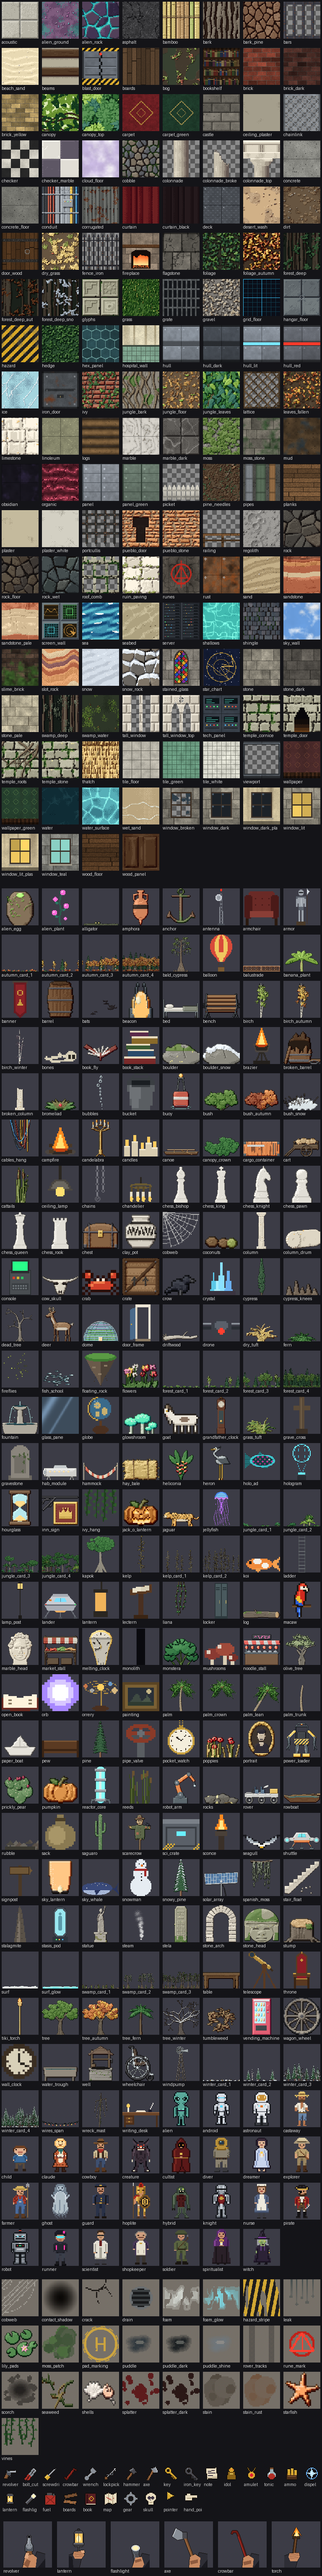
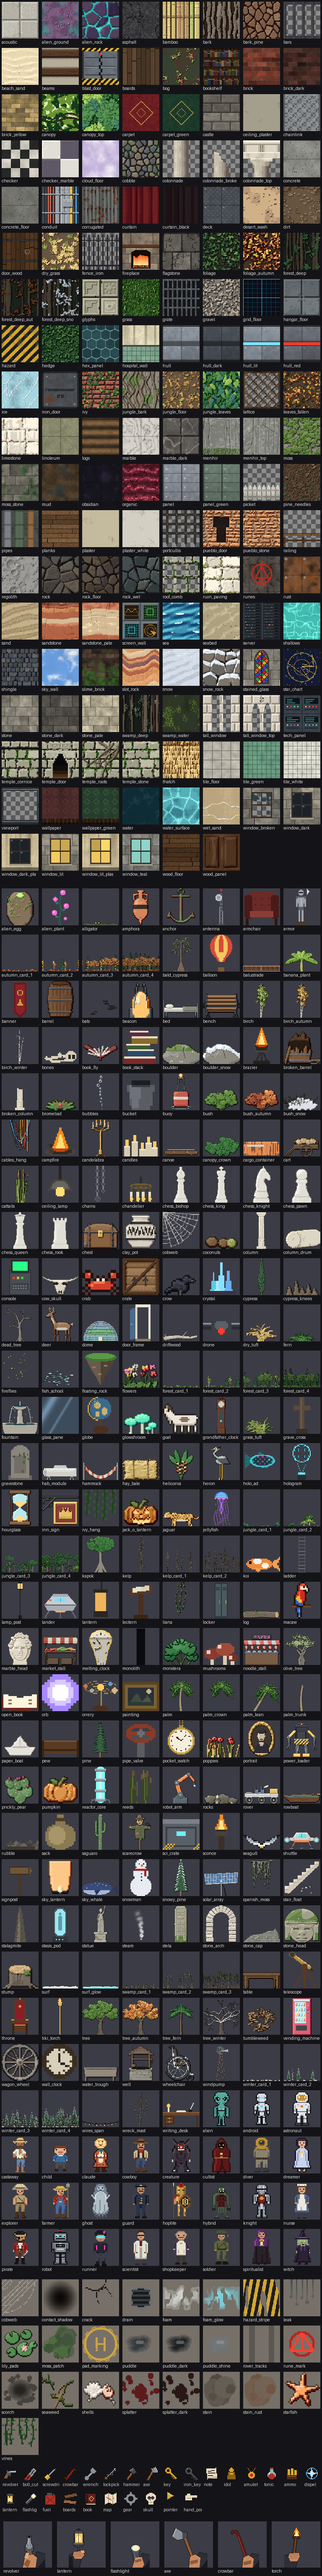
Weather the standing stones on the misty moor
The moor's stones were plain blocks of one height. They now stand at different heights (a
`heights` layer), faced with a new `menhir` texture - one weathered stone surface with broad
swells, rain runnels, long cracks, lichen rosettes and moss at its foot, `menhir_top` above it
- and each wears a `stone_cap`, a new prop: a slanted, chipped crown of stone set on the block
(flipped on every other stone), so the circle's outline against the dawn sky is a ring of
weathered megaliths instead of a row of boxes. A rounded cap was tried first; it made them
gravestones.

Docs say how to build a standing stone; counts (150 textures, 213 props) and the asset
inventory updated (misty_moor now rated good).

Changed region(s): [[0.0, 0.1558, 1.0, 0.3427], [0.0, 0.7478, 0.5938, 0.9036], [0.625, 0.7166, 1.0, 0.9036]]

diff --git a/scripts/basics.py b/scripts/basics.py
@@ -618,6 +618,80 @@ def tex_alien_ground(name):
                  ambient=0.32, diffuse=0.62)
 
 
+def tex_menhir(name, top=False):
+    """The face of a standing stone, one weathered surface: broad swells and hollows, runnels worn
+    down it by the rain, two or three long cracks, rosettes of pale lichen, moss gathered at its
+    foot - or (`top`) the upper courses, greyer and more lichened, without the moss."""
+    rng = _rng(name)
+    cv = Canvas(T, ground=0.0, mat=0)
+    swell = smooth_noise(T, T, 2, rng) * 0.6 + smooth_noise(T, T, 4, rng) * 0.4
+    cv.z += (2.4 * swell).astype(np.float32)
+    cv.noise(0.3, cells=12, rng=rng, octaves=3)                        # pitting
+    for _ in range(9):                                                   # runnels down the face
+        x = rng.random() * T
+        pts = [(x, -2)]
+        for _ in range(6):
+            pts.append((pts[-1][0] + rng.normal(0, 1.0), pts[-1][1] + rng.uniform(8, 14)))
+        cv.stroke(pts, rng.uniform(1.0, 2.2), dome=0.5, mode='carve')
+    for _ in range(2):                                                   # long cracks
+        x, y = rng.random() * T, rng.random() * T
+        a = np.radians(rng.uniform(60, 120))
+        pts = [(x, y)]
+        for _ in range(5):
+            a += rng.normal(0, 0.3)
+            pts.append((pts[-1][0] + np.cos(a) * 6, pts[-1][1] + np.sin(a) * 6))
+        cv.stroke(pts, 0.9, dome=0.8, mode='carve')
+    for _ in range(26 if top else 14):                                   # lichen rosettes
+        x, y = rng.random() * T, rng.random() * T
+        r = rng.uniform(1.2, 3.2)
+        m = 1 if rng.random() < 0.6 else 2
+        for _ in range(6):
+            cv.ellipse(x + rng.normal(0, r * 0.4), y + rng.normal(0, r * 0.4), r * 0.45, r * 0.4, z=0.0, dome=0.2,
+                       mode='add', mat=m, tone=rng.normal(0, 0.04))
+            cv.mat[int(y) % T, int(x) % T] = m
+    lich = np.zeros((T, T), bool)
+    for _ in range(26 if top else 14):
+        x, y, r = rng.random() * T, rng.random() * T, rng.uniform(1.2, 3.0)
+        yy, xx = np.mgrid[0:T, 0:T]
+        d = np.hypot((xx - x + T / 2) % T - T / 2, (yy - y + T / 2) % T - T / 2)
+        lich |= d < r * (0.7 + 0.3 * rng.random((T, T)))
+    cv.mat[lich] = np.where(rng.random(int(lich.sum())) < 0.6, 1, 2)
+    if not top:                                                          # moss at the foot
+        foot = (np.arange(T)[:, None] > T - 14 + 6 * smooth_noise(T, 1, 5, rng)[0][None, :])
+        cv.mat[foot & (rng.random((T, T)) < 0.75)] = 3
+    cv.tone += (0.08 * (smooth_noise(T, T, 3, rng) - 0.5)).astype(np.float32)
+    return _tile(cv, [ramp('#8a8a84', dark=0.32, light=1.3), ramp('#b8b48a', dark=0.45, light=1.12),
+                      ramp('#9aa49a', dark=0.45, light=1.15), ramp('#4e6a34', dark=0.35, light=1.25)],
+                 relief=1.0, cavity=0.4, shadow=0.4, ambient=0.3, diffuse=0.62)
+
+
+def spr_stone_cap():
+    """The weathered top of a standing stone: a slanted, chipped crown of grey stone with lichen on
+    it, high on one side, the corners knocked off - to set on a wall block one cell wide (`z` a
+    little under the block's height; `flip` half of them) so the stones' outline against the sky
+    is not a row of flat-topped boxes."""
+    rng = np.random.default_rng(191)
+    w, h = 64, 28
+    cv = Canvas(w, h, wrap=False, ground=-9)
+    xs = np.arange(w) + 0.5
+    u = xs / w
+    rise = 0.25 + 0.75 * u                                              # a slanted top, high on one side,
+    shoulder = np.clip(np.minimum(u, 1 - u) / 0.12, 0, 1) ** 0.5         # the corners knocked off,
+    top = h - (h - 3) * rise * shoulder
+    top += 4.0 * (smooth_noise(w, 1, 9, rng, wrap=False)[0] - 0.5)      # and chipped along its edge
+    top = np.minimum(top, h - 1)
+    yy = np.arange(h)[:, None] + 0.5
+    body = yy >= top[None, :]
+    cv.put(np.arange(h), np.arange(w), body, (1.0 * shoulder)[None, :].repeat(h, 0), mat=0)
+    cv.noise(0.25, cells=8, rng=rng)
+    for _ in range(9):                                                   # lichen
+        x, y = rng.uniform(8, w - 8), rng.uniform(h * 0.35, h - 2)
+        if body[int(y), int(x)]:
+            cv.ellipse(x, y, rng.uniform(1.2, 2.6), rng.uniform(1.0, 2.0), z=1.6, dome=0.2, mode='max', mat=1)
+    return _prop(cv, [ramp('#8a8a84', dark=0.32, light=1.3), ramp('#b8b48a', dark=0.45, light=1.12)], outline=False,
+                 relief=1.0, cavity=0.35, shadow=0.35, ambient=0.3, diffuse=0.62)
+
+
 def spr_jaguar():
     """A jaguar prowling, side on, facing left: a long, low, heavy body, the shoulders working, a
     broad head with round ears, the tail curving down and up at the tip; a golden coat in black
@@ -1061,9 +1135,13 @@ TEXTURES = {
     'corrugated': lambda n: (tex_corrugated(n), None),
     'marble_dark': lambda n: (tex_marble_dark(n), None),
     'alien_rock': tex_alien_rock,
+    'menhir': lambda n: (tex_menhir(n), None),
+    'menhir_top': lambda n: (tex_menhir(n, top=True), None),
     'alien_ground': lambda n: (tex_alien_ground(n), None),
 }
 SPRITES = {'barrel': spr_barrel, 'broken_barrel': spr_broken_barrel, 'crate': spr_crate, 'fountain': spr_fountain,
            'rowboat': spr_rowboat, 'bench': spr_bench, 'flowers': spr_flowers, 'statue': spr_statue,
            'bed': spr_bed, 'wheelchair': spr_wheelchair, 'table': spr_table, 'chest': spr_chest,
-           'glowshroom': spr_glowshroom, 'buoy': spr_buoy, 'alien_egg': spr_alien_egg, 'jaguar': spr_jaguar}
+           'glowshroom': spr_glowshroom, 'buoy': spr_buoy, 'alien_egg': spr_alien_egg, 'jaguar': spr_jaguar,
+           'stone_cap': spr_stone_cap}
+SPRITE_HEIGHT = {'stone_cap': 0.44}

diff --git a/examples/misty_moor.py b/examples/misty_moor.py
@@ -1,7 +1,7 @@
 """Misty moor: a stone circle at dawn, mist lying in the hollows, the low sun cutting through.
 
 Shows volumetric fog (a ground layer that thins with height and drifts in banks), shafts of
-sunlight between the stones, long dawn shadows, and a character seen from behind (`facing`).
+sunlight between the stones (weathered `menhir` blocks of different heights from a `heights` layer), long dawn shadows, and a character seen from behind (`facing`).
 Run:  python misty_moor.py  -> writes misty_moor.json
 """
 import math
@@ -20,16 +20,23 @@ g.put(cx, cy, 'A')                                    # ...round a low altar sto
 for (x, y) in ((8, 30), (33, 31), (36, 9), (6, 8)):
     g.put(x, y, 'S')                                  # a few strays out on the moor
 heights = [list('.' * 44) for _ in range(44)]
-heights[cy][cx] = '4'
+heights[cy][cx] = '2'                                 # the altar, low (0.5)
+caps = []
+for k, (x, y) in enumerate([(x, y) for y in range(44) for x in range(44) if g.get(x, y) == 'S']):
+    d = '6789'[(k * 7 + x) % 4]
+    heights[y][x] = d                                 # each stone its own height, 1.5 to 2.25,
+    caps.append({'x': x + 0.5, 'y': y + 0.5, 'type': 'stone_cap', 'z': int(d) * 0.25 - 0.03,   # with a weathered top
+                 'flip': k % 2 == 1, 'shadow': False})
 
 s = scene(
     g,
     title='Misty moor - the stone circle at dawn',
     heights=[''.join(r) for r in heights],
+    height_unit=0.25,
     legend={
         ',': {'floor': 'grass'},
-        'S': {'wall': 'moss_stone', 'h': 1.9},
-        'A': {'wall': 'stone_dark', 'top': 'moss_stone'},
+        'S': {'wall': ['menhir', 'menhir_top'], 'top': 'menhir_top'},
+        'A': {'wall': 'menhir', 'top': 'moss_stone'},
     },
     sky='dusk',
     skyline={'type': 'hills', 'height': 0.8},
@@ -38,7 +45,7 @@ s = scene(
              'disc_size': 3.2}],
     fog={'color': [0.58, 0.55, 0.62], 'density': 0.01, 'ground': 0.4, 'height': 0.3, 'noise': 0.6, 'scale': 3.0,
          'shafts': 0.8},
-    sprites=[
+    sprites=caps + [
         {'id': 'wanderer', 'x': 22.3, 'y': 27.0, 'type': 'knight', 'facing': 280},
         {'x': 12.0, 'y': 25.0, 'type': 'dead_tree', 'scale': 2.4}, {'x': 31.0, 'y': 24.0, 'type': 'dead_tree', 'flip': True},
     ],

diff --git a/scripts/assets.py b/scripts/assets.py
@@ -2233,7 +2233,7 @@ TEXTURE_NOISE = {
     'slime_brick': 1.4, 'door_wood': 1.0,
     'hull': 0.6, 'hull_lit': 0.5, 'hull_red': 0.6, 'hull_dark': 0.6, 'tech_panel': 0.5, 'server': 0.4,
     'blast_door': 0.7, 'hazard': 1.2, 'deck': 1.0, 'grid_floor': 0.2, 'hex_panel': 0.8,
-    'alien_rock': 1.8, 'alien_ground': 2.0, 'organic': 1.6, 'sky_wall': 0.3, 'cloud_floor': 0.5,
+    'menhir': 1.0, 'menhir_top': 1.0, 'alien_rock': 1.8, 'alien_ground': 2.0, 'organic': 1.6, 'sky_wall': 0.3, 'cloud_floor': 0.5,
     'obsidian': 0.6, 'fireplace': 0.6, 'star_chart': 0.4, 'viewport': 0.6,
 }
 
@@ -2554,6 +2554,7 @@ import basics  # noqa: E402
 
 TEXTURES.update(basics.TEXTURES)
 SPRITES.update(basics.SPRITES)
+SPRITE_HEIGHT.update(basics.SPRITE_HEIGHT)
 
 # ---------------------------------------------------------------- the countryside
 # A scarecrow, pumpkins, hay bales and crows, drawn with the toolkit in village.py.

diff --git a/docs/ASSETS.md b/docs/ASSETS.md
@@ -21,8 +21,8 @@ The smoke test fails while this file is out of date. Sheets show textures tiled 
 <!-- summary -->
 | | count | good | polish | rework | new |
 |---|---|---|---|---|---|
-| Textures | 148 | 145 | 3 | 0 | 0 |
-| Props | 212 | 210 | 2 | 0 | 0 |
+| Textures | 150 | 147 | 3 | 0 | 0 |
+| Props | 213 | 211 | 2 | 0 | 0 |
 | Characters | 27 | 25 | 2 | 0 | 0 |
 | Decals | 25 | 20 | 5 | 0 | 0 |
 | Skies | 11 | 11 | 0 | 0 | 0 |
@@ -38,8 +38,8 @@ The smoke test fails while this file is out of date. Sheets show textures tiled 
 | GUI widgets | 16 | 16 | 0 | 0 | 0 |
 | Post presets | 20 | 20 | 0 | 0 | 0 |
 | Palettes | 9 | 9 | 0 | 0 | 0 |
-| Example scenes | 47 | 40 | 7 | 0 | 0 |
-| **all** | **608** | **581** | **27** | **0** | **0** |
+| Example scenes | 47 | 41 | 6 | 0 | 0 |
+| **all** | **611** | **585** | **26** | **0** | **0** |
 <!-- /summary -->
 
 ## Pass plan
@@ -53,7 +53,7 @@ Weakest first, and in the order the new scenes need them.
 5. **Small things.** The hands on the held items, the `stain`, `stain_rust` and `moss_patch` decals, the `child` and `dreamer` characters, the `city` skyline, `alien_rock`, `alien_ground`, and the `glowshroom` and `alien_egg` props.
 6. **Second look.** Every asset marked good, checked again on the review sheets and in its scenes, with fresh eyes and the new techniques in hand.
 
-## Textures (148)
+## Textures (150)
 
 64x64 tiles, drawn in code. "glows" means the texture lights itself (windows, screens, runes), "see-through" that the map shows through its holes, "mirror" that floors made of it reflect.
 
@@ -65,10 +65,12 @@ Weakest first, and in the order the new scenes need them.
 | `brick_dark` | good |  | neon_street, rain_alley |  |
 | `brick_yellow` | good |  | - |  |
 | `stone` | good |  | claude_study, garden_encounter, gui_menus, hospital_garden, post_presets | Even block sizes; a few varied heights would help on long walls. |
-| `stone_dark` | good |  | cathedral_ruin, garden_encounter, gui_menus, gui_themes, gui_trade, haunted_house, hospital_garden, library_medium, mansion_library, misty_moor, post_presets, rainy_street |  |
+| `stone_dark` | good |  | cathedral_ruin, garden_encounter, gui_menus, gui_themes, gui_trade, haunted_house, hospital_garden, library_medium, mansion_library, post_presets, rainy_street |  |
 | `stone_pale` | good |  | cathedral_ruin, chapel_graveyard, coast_lighthouse, dream_world, garden_encounter, gui_menus, hospital_garden, post_presets |  |
 | `castle` | good |  | castle_keep | Mortar grid is very regular; chip a few corners. |
 | `moss_stone` | good |  | autumn_lane, coast_lighthouse, misty_moor |  |
+| `menhir` | good |  | misty_moor | Drawn with the toolkit in basics.py: one weathered stone face - broad swells, rain runnels, long cracks, lichen rosettes - moss at its foot. |
+| `menhir_top` | good |  | misty_moor | Drawn with the toolkit in basics.py: the upper courses of a standing stone: greyer, more lichen, no moss. |
 | `slime_brick` | good |  | sewer_tunnels |  |
 | `plaster` | good |  | rainy_street, village_green | Redrawn with the toolkit in basics.py: smooth render mottled where patched, a hairline crack, faint streaks; no band, so it stacks storey on storey. |
 | `plaster_white` | good |  | garden_encounter, gui_menus, hospital_garden, post_presets | Redrawn with the toolkit in basics.py: the same render in white. |
@@ -265,7 +267,7 @@ Weakest first, and in the order the new scenes need them.
 | `bamboo` | polish |  | tropical_beach | The nodes still line up into a grid across the poles. |
 | `thatch` | polish |  | tropical_beach | The rows could be clearer, each with a shadow under its fringe. |
 
-## Props (212)
+## Props (213)
 
 Camera-facing sprites. "tall" is the default height in world units (a wall is 1); "no shadow" props hang, float or burn, so they get no contact shadow.
 
@@ -371,6 +373,7 @@ Camera-facing sprites. "tall" is the default height in world units (a wall is 1)
 | `column` | good | 1 tall | ancient_ruins, cathedral_ruin | Redrawn: a fluted Doric column with capital and plinth. |
 | `fountain` | good | 0.9 tall | - | Redrawn with the toolkit in basics.py: a moulded basin with water in it, a fluted pedestal and bowl, water spilling in arcs. |
 | `gravestone` | good | 0.6 tall | chapel_graveyard, haunted_house |  |
+| `stone_cap` | good | 0.44 tall | misty_moor | Drawn with the toolkit in basics.py: a slanted, chipped crown of stone with lichen, to set on a one-cell block so a standing stone has a weathered top. |
 | `grave_cross` | good | 0.55 tall | chapel_graveyard, haunted_house |  |
 | `signpost` | good | 1.3 tall | coast_lighthouse |  |
 | `statue` | good | 1.5 tall | garden_encounter, gui_menus, hospital_garden, mansion_library, post_presets | Redrawn with the toolkit in basics.py: a draped woman in weathered marble raising a wreath, folds catching the light, on a moulded plinth with lichen. |
@@ -868,7 +871,7 @@ The environments, judged on their gallery images and shots.
 | `neon_street` | good | 4 | neon_street, neon_stall, neon_signs, neon_runner | The neon facade style in the rain: signs, blade signs, lantern wires, a hologram koi, a noodle stall, vending machines, steam, the runner; bloom on the neon. |
 | `village_green` | good | 4 | village_market, village_stall, village_well, village_night | A cobbled street of timber-framed houses to a green: a market stall and its keeper, the inn sign, a cart, the well; the inn lit after closing. |
 | `ghost_town` | good | 4 | western_noon, western_saloon, western_ghost, western_windpump | A frontier main street: a cowboy at high noon, the saloon and its barkeep, sundown with lanterns and a ghost, a windpump in the desert. |
-| `misty_moor` | polish | 3 | moor_dawn, moor_circle | The standing stones are plain blocks; weathered tops and lichen would help. |
+| `misty_moor` | good | 3 | moor_dawn, moor_circle | Stones of varied heights with weathered menhir faces and slanted, chipped stone_cap tops in dawn mist. |
 | `winter_lake` | polish | 4 | winter_night, winter_day | The ice is blotchy (see the ice texture). |
 | `winter_woods` | good | 4 | winter_lane, winter_deer, winter_lantern, winter_stream | A snowbound wood: the lane, a deer on a frozen stream in falling snow, a child by a lantern-lit footbridge, trees mirrored in the ice. |
 | `chapel_graveyard` | good | 4 | chapel_yard, chapel_nave | The yard is a little sparse. |
@@ -923,6 +926,7 @@ The environments, judged on their gallery images and shots.
 ## Pass log
 
 - **2026-10-19, pass 0.** First full review of every asset, on review sheets and in the gallery. This file and `docs/asset_review.py` were added.
+- **2026-10-19, the stone circle.** `menhir`, `menhir_top` and a `stone_cap` prop: the misty moor's stones get varied heights, weathered faces and slanted, chipped tops instead of flat-topped blocks.
 - **2026-10-19, polish pass 4.** `alien_rock` (faceted, glowing in its crevices), `alien_ground`, `dry_grass` (fewer, larger clumps), and the `jaguar` redrawn prowling side on in rosettes.
 - **2026-10-19, the Moon.** An `earth` sky object; `scripts/moon.py`: `regolith`, `rover_tracks`, `dome`, `hab_module`, `solar_array`, `rover`. `examples/moon_base.py` with four gallery shots.
 - **2026-10-19, the haunted house.** `scripts/haunted.py`: `cobweb`, `candelabra`, `portrait`, `grandfather_clock`, `balustrade`, `bats`. `examples/haunted_house.py`: a grand staircase from the `heights` layer up to a landing with a balustrade, four gallery shots.

diff --git a/references/scene_format.md b/references/scene_format.md
@@ -395,11 +395,12 @@ Drawing order: opaque sprites first (they write depth), then translucent/additiv
 
 **Contact shadows.** Every opaque prop or character standing on the floor gets a soft dark stamp under its feet, sized to its width, so nothing looks pasted onto the ground. `contact_shadows` sets the strength for the scene (0.55 by default, `0` for none) and a sprite's `shadow` overrides it. Sprites lifted off the floor (`z` > 0.05), standing on a block, translucent, additive or `fullbright` get none, and nor do fires, light fixtures, hanging and wall-mounted props, ladders, crystals and glowing mushrooms.
 
-Built-in props (212): armor, barrel, bed, bench, birch, birch_autumn, birch_winter, boulder, boulder_snow, brazier, buoy, bush, bush_autumn, bush_snow, campfire, candles, chest, column, console, crate, crystal, dead_tree, deer, fern, flowers, fountain, glowshroom, grave_cross, gravestone, lamp_post, lantern, lectern, locker, log, mushrooms, palm, pew, pine, rowboat, signpost, snowman, snowy_pine, stalagmite, statue, stump, table, throne, tree, tree_autumn, tree_winter, wheelchair, plus the wall-mounted, ground, countryside, sci-fi, dream and study props listed below. `tree_autumn`, `birch_autumn` and `bush_autumn` are the oak, the birch and the bush turned for the fall; `tree_winter` and `birch_winter` the oak and the birch bare in winter with snow along their limbs, `bush_snow` a bush buried in snow. `deer` (0.62 tall, antlered) stands side on. `boulder_snow` is the boulder under a cap of snow, for winter (the `snow` scatter set uses it). `crystal` and `glowshroom` glow (pair them with a coloured light); `pew`, `table` and `bench` take `stretch` for length.
+Built-in props (213): armor, barrel, bed, bench, birch, birch_autumn, birch_winter, boulder, boulder_snow, brazier, buoy, bush, bush_autumn, bush_snow, campfire, candles, chest, column, console, crate, crystal, dead_tree, deer, fern, flowers, fountain, glowshroom, grave_cross, gravestone, lamp_post, lantern, lectern, locker, log, mushrooms, palm, pew, pine, rowboat, signpost, snowman, snowy_pine, stalagmite, statue, stump, table, throne, tree, tree_autumn, tree_winter, wheelchair, plus the wall-mounted, ground, countryside, sci-fi, dream and study props listed below. `tree_autumn`, `birch_autumn` and `bush_autumn` are the oak, the birch and the bush turned for the fall; `tree_winter` and `birch_winter` the oak and the birch bare in winter with snow along their limbs, `bush_snow` a bush buried in snow. `deer` (0.62 tall, antlered) stands side on. `boulder_snow` is the boulder under a cap of snow, for winter (the `snow` scatter set uses it). `crystal` and `glowshroom` glow (pair them with a coloured light); `pew`, `table` and `bench` take `stretch` for length.
 
 - Sci-fi and alien: `stasis_pod` (lit glass, a sleeper inside; tint it dark for a dead one), `hologram` (a wireframe world over its emitter, with a soft glow), `sci_crate`, `drone` (float it with `z`), `lander` (a landing craft, 1.6 tall), `antenna`, `alien_plant` (glowing pods), `monolith`, `alien_egg`. For hangars and engine rooms: `shuttle` (a short-hop craft on landing legs, 2.2 tall, engines and cockpit lit), `cargo_container` (corrugated, faded orange; tint it for other colours and stack one on another with `z` 1.2), `power_loader` (a hazard-yellow exosuit with forks), `beacon` (an amber warning light; give it a light of its own), `reactor_core` (a glowing column 2.8 tall in steel collars), `robot_arm` (a welding arm on a turntable), `cables_hang` (slack cables from the ceiling: set `z` near the ceiling; no contact shadow). For a neon street: `vending_machine` (a lit front of cans), `noodle_stall` (lanterns, a neon sign, pots on the counter), `steam` (a see-through plume: stand it on a drain or a pot), `holo_ad` (a hologram koi drawn in light, additive: float it over the street with `z`), `wires_span` (wires slung across a street with lanterns on them: `planes` 1 by default; give it an `angle` across the street, a `length` and a `z` of 2.5-3.5).
 - Dream and surreal: `orb` (a floating light with its own glow), `floating_rock` (an islet of earth adrift), `door_frame` (a door standing on its own), `sky_whale` (stars along its back; float it high), `koi`, `pocket_watch`, `balloon`, a whole chess set in marble - `chess_pawn`, `chess_rook`, `chess_knight`, `chess_bishop`, `chess_queen`, `chess_king` (tint them dark for the other side; scale them up for a giant game) - `melting_clock` (a clock gone soft: stand it just off the front face of a block with its `z` set so the fold lies on the edge), `hourglass`, `stone_arch` (a lone archway, 2.4 tall; it floats with `z`), `stair_float` (a flight of stairs broken off at both ends), `paper_boat` (it sails on a mirror floor), `jellyfish` (a bell of light trailing tentacles; additive, so it glows - float it with `z`), `sky_lantern` (a paper lantern lit from inside, drifting up), `book_fly` (an open book flying on its covers). `checker_marble` is a polished floor of black and white marble squares (mirror 0.35); `tall_window` and `tall_window_top` are a gothic window in pale stone, see-through between its leads, to stack two or three storeys high: `["tall_window", "tall_window", "tall_window_top"]`. Things meant to float carry no contact shadow, so set their `z` and they hang in the air. Over a void floor `z` is simply height above z=0.
 - On the Moon: `dome` (a greenhouse under a geodesic frame of glass, lit from inside - it glows; 2.6 tall, scale it up for a big one), `hab_module` (a habitat cylinder on legs, its portholes lit), `solar_array`, `rover` (six wire wheels, two seats, a dish).
+- Standing stones: build each as a wall cell of `menhir` (a weathered face, moss at its foot) with `menhir_top` above it, its height from a `heights` layer, and set a `stone_cap` on it (`z` a little under its height, `flip` half of them) for a slanted, chipped top instead of a flat one.
 - A haunted house: `cobweb` (stand it across a corner as a card - `planes` 1, `angle` 45 or 135 - with `z` near the ceiling), `candelabra` (five candles burning; give it a warm light), `portrait` (an oval gilt frame round a pale, unsmiling face whose eyes catch a little light; hang it 0.2 off a wall with `z`), `grandfather_clock` (1.6 tall, its hands near midnight), `balustrade` (turned balusters between rails, three units long at its own height of 0.5: stand it as cards along the edge of a landing with `z` at the landing's height), `bats` (float them against the moon).
 - A study: `telescope`, `globe`, `armchair`, `book_stack`, `open_book` (glowing pages; float a few for magic), `writing_desk` (with a lit candle), `orrery` (a glowing sun at its heart).
 - The countryside: `scarecrow` (1.9 tall: a sack head under a battered hat, a patched coat on a crossbar, a crow on one arm), `pumpkin`, `jack_o_lantern` (carved and lit from inside: it glows - give it a warm light of its own at dusk), `hay_bale`, `crow`. On a village street: `well` (a round wall of fieldstones under a little shingled roof, a windlass and a bucket), `cart` (a hand cart loaded with sacks), `market_stall` (a striped awning over a trestle of apples, cabbages and bread), `inn_sign` (a gilt crown on a red board hanging from an iron bracket at its left end: stand it out from a front as a card - `planes` 1, `angle` square to the wall, `z` about 1.2 - so it reads from up and down the street).

diff --git a/README.md b/README.md
@@ -181,7 +181,7 @@ Asked what it would look like and where it would want to be, Claude picked a sma
 - **Volumetric fog**: mist that lies low and drifts in banks, halos round every lamp, and beams of sun or moonlight through windows, doorways, standing stones and trees; sunlight finds its way into roofed rooms through their doorways, windows and skylights
 - **Reflections**: water, ice, wet streets and puddles mirror the lamps, windows and figures beyond them
 - **The 90s look**: 320x200 framebuffer, Bayer-dithered 256-colour palette, chunky nearest-neighbour upscale, optional scanlines and 2x supersampling
-- **Sprites**: 212 procedural props - scenery, light fixtures, wall decorations, castle furnishings, jungle plants, classical ruins, beach gear, sci-fi gear, alien flora, dream objects, animals, debris and vegetation - a 27-character pixel-art cast, each with a back view for over-the-shoulder shots, any PNG, or new pixel art written as text grids right in the scene
+- **Sprites**: 213 procedural props - scenery, light fixtures, wall decorations, castle furnishings, jungle plants, classical ruins, beach gear, sci-fi gear, alien flora, dream objects, animals, debris and vegetation - a 27-character pixel-art cast, each with a back view for over-the-shoulder shots, any PNG, or new pixel art written as text grids right in the scene
 - **Planar sprites**: a plant can stand as fixed planes in the world instead of a billboard - a cross of two, or a star of three that cuts the ground round it into sixths - so it has body as the camera moves; the low plants do by default, and a prefab can mix billboards and planes (a billboard palm trunk under a star of fronds)
 - **Layered forest edges**: give the walls of a jungle or a wood a `fringe` and every face that looks onto open ground gets long cards of plants standing in front of it, sparse bushes at the front to a dense wall of trunks and crowns at the back, so the edge of the forest has real depth
 - **City streets with depth**: give a block of buildings a `facade` and its fronts become separate buildings - different heights, brick, paint and windows - each drawn in layers: the wall, then frames and glass set back in it, curtains and blinds behind, and lit or dark rooms behind those, so the windows have real depth as the camera moves; the wall has its thickness, so from an angle every window and door shows its brick sides, lintel and sill
@@ -200,7 +200,7 @@ Asked what it would look like and where it would want to be, Claude picked a sma
 - **Post-processing**: colour grading, bloom, vignette, grain, lightning, letterbox, damage flash, fade, pixelate, posterize, gradient maps, retro palettes (Game Boy, CGA, EGA, amber, phosphor, sepia...), CRT curvature and shadow mask, VHS chroma bleed and tracking, chromatic aberration; 20 one-word presets
 - **Authoring tools**: a render report after every shot (too dark, blown out, a hidden or tiny subject, a wall in the lens, a camera inside a wall - each with a fix), `look_at` camera aiming, top-down layout maps with camera cones, contact sheets, a material catalog, and `maptools.Grid` for building maps in Python
 - **Pixel art drawn in code**: the jungle, ruins and beach are built from shapes - leaves, stones, planks, blades of grass, carved glyphs - stamped into a height field, lit from one direction, and snapped onto hue-shifted colour ramps with dark edges on their shadow sides (`scripts/pixelart.py`), so they read as pixel art rather than noise
-- **No assets to download**: all 148 textures, 212 props, 27 characters, 25 decals, the skies and the font are generated in code, so the whole thing is a few hundred KB of Python
+- **No assets to download**: all 150 textures, 213 props, 27 characters, 25 decals, the skies and the font are generated in code, so the whole thing is a few hundred KB of Python
 
 ![Character cast](docs/gallery/cast.png)
 

diff --git a/SKILL.md b/SKILL.md
@@ -92,6 +92,7 @@ Stack effects or use presets in `"post"`: crt, crt_amber, crt_green, vhs, gamebo
 - **Dress the floor.** An empty floor is the clearest sign of an unfinished frame. Scatter a few ground props (`rocks`, `rubble`, `bones`, `grass_tuft`, `reeds`, `sack`, `bucket`, `broken_barrel`) and stamp `decals` (puddles, stains, cracks, scorch, moss) along the route the camera actually looks down. A handful placed in shot beats a carpet placed everywhere - check with `--map` that they fall inside the view cone.
 - **Decals over new textures.** Wet patches, blood, vines, soot, water damage and cracks are `decals`, not new wall textures: they cost nothing, stack, and can sit anywhere on a surface. Use `puddle_shine` wherever a light reaches and `puddle_dark` only in dim interiors - a dark puddle on a lit floor reads as a hole.
 - **Light the fixture, not the air.** Pair every light with a visible source: `sconce` and `brazier` on walls and floors, `ceiling_lamp` and `chandelier` hung at `z` just under `ceiling_height`, `lamp_post` outdoors.
+- **Standing stones** are wall cells of `["menhir", "menhir_top"]` at different heights (a `heights` layer), each with a `stone_cap` sprite on top so the circle's outline is not a row of boxes. See `examples/misty_moor.py`.
 - **Fog with a shape.** Add `ground`, `height` and `noise` to `fog` for mist that lies low and drifts in banks, so stones, graves and trees rise out of it. `glow` gives every lamp a halo. With a `sun` or `moon` light, `shafts` turns the light into beams through doorways, broken windows, a fallen roof, standing stones and trees. A low sun (5-15 degrees) behind the subject gives the strongest beams. Keep `shafts` around 1 when the camera looks into the sun, and give the fog a `color` lighter than the dark around it. See `examples/misty_moor.py` and `cathedral_ruin.py`.
 - **Weather is in the world.** Rain, snow, leaves, ash and dust fall behind walls and never under a roof, shrinking and fading into the fog with distance. For a downpour use the `downpour` preset with `"wet": 0.6-0.8` (wet ground mirrors the lamps and windows) and a little fog `glow`. `blizzard`, `autumn`, `sandstorm` and `ashfall` are one word each. Use `fireflies`, `spores` and `embers` for magic, alien air and fire. See `examples/rain_alley.py`.
 - **Shots from behind.** Give a character `facing` (the compass direction it looks) and put the camera behind it: you get its back. That's the shot of someone looking out over the view, walking away down a wet street, or standing in a beam of light. Every built-in character has a back view.
